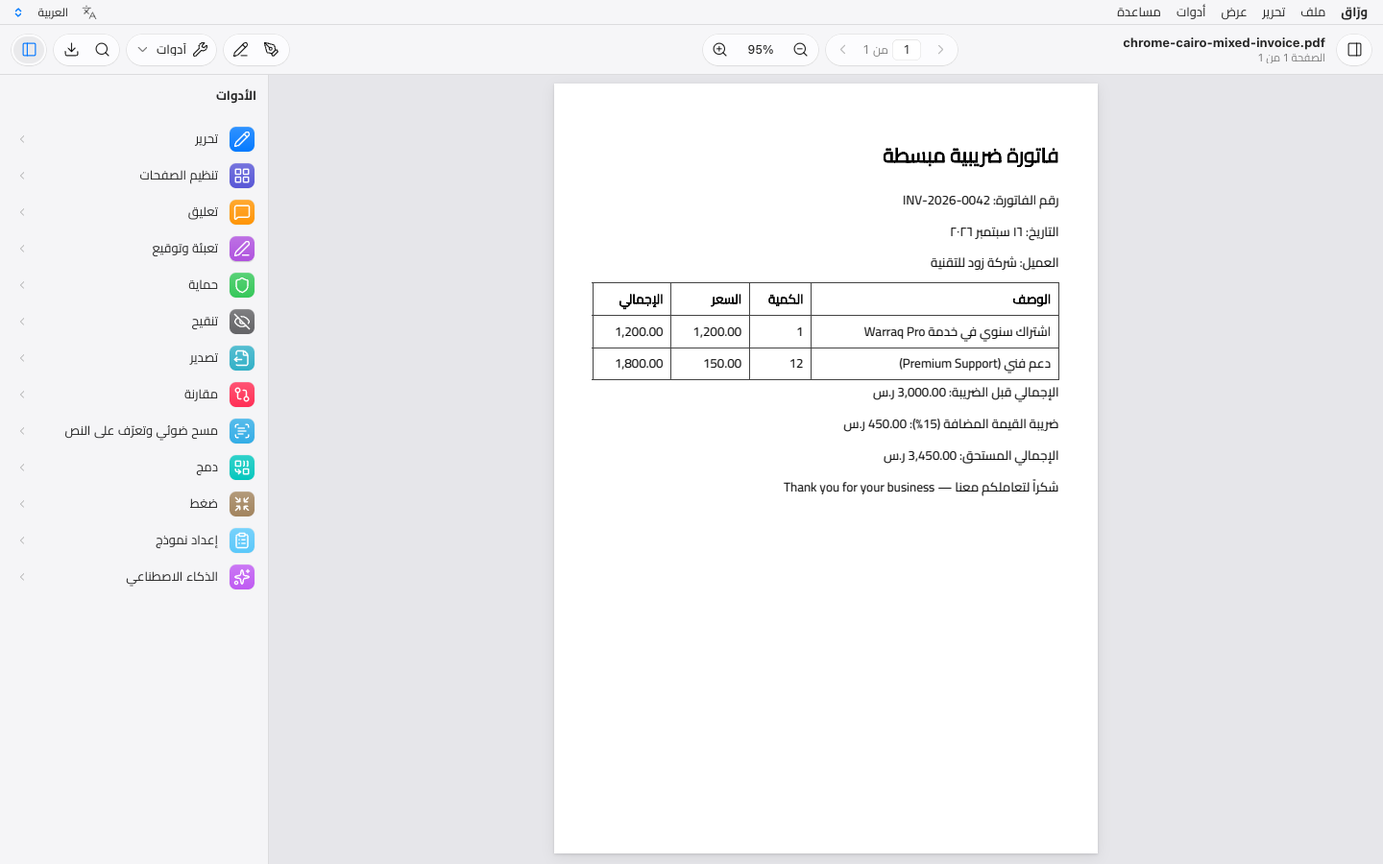
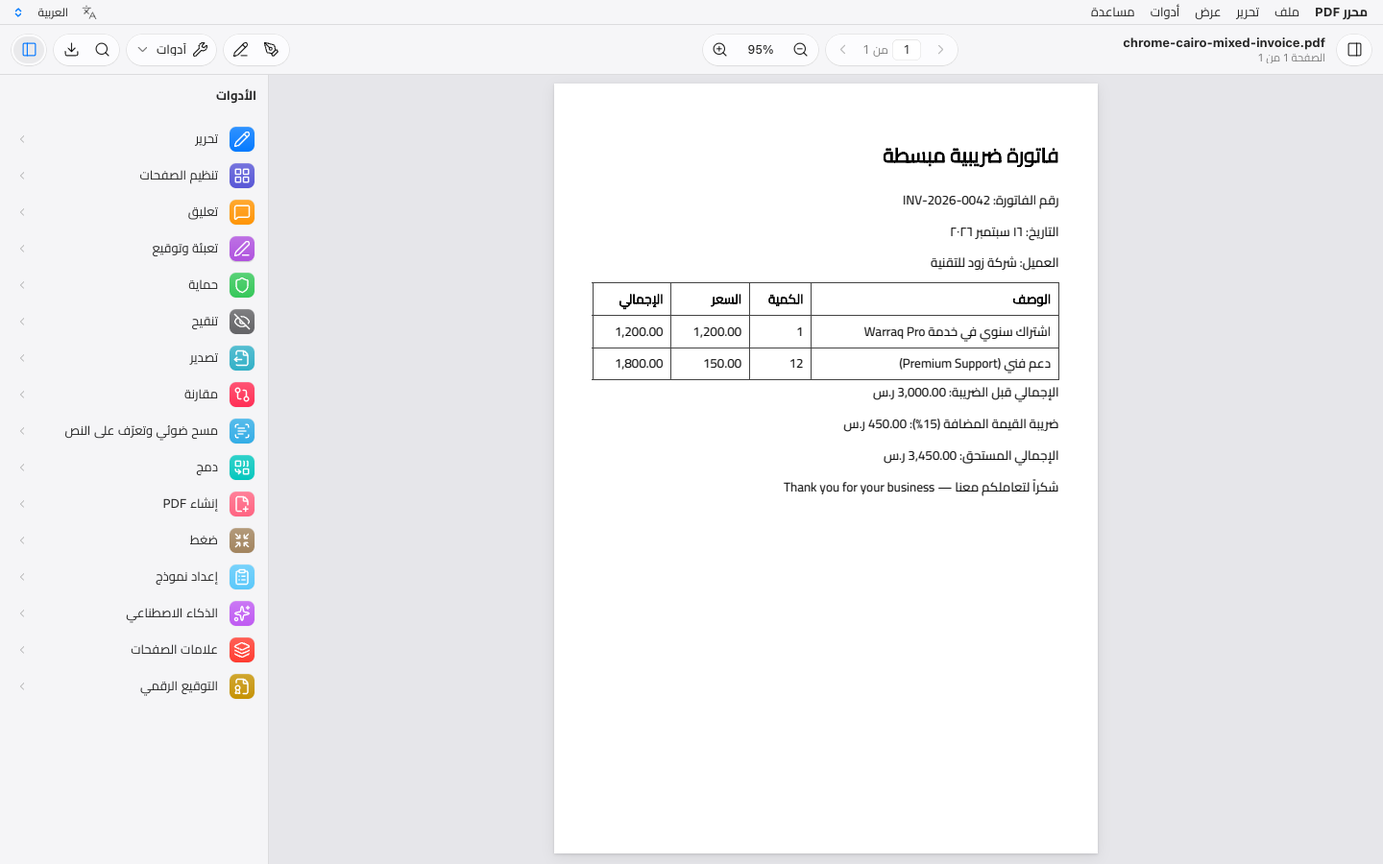
Refresh the screenshots and say in the docs what the shell now does
Eighteen screenshots from the production build, six of them new: the home
screen's tools, the picker's gallery in both languages, About, Settings and
a phone with a tool's sheet — all looked at. The tool picker now scrolls
rather than running off a short window's bottom edge.

docs/design/README.md and docs/STATUS.md say what is true after the review:
the toggles follow the view, the macOS menu bar's Undo, About and checks,
the sheet's drag and its physics, the markup toolbar in the View menu, the
keyboard of the tool picker and of segmented controls, and the rules the
home screen's pictures follow — with the limits stated: the picture is
dropped on save rather than retaken, no page is drawn past 64 million
pixels, the menu bar is proven against a stand-in for the host rather than
clicked in the installed app, and the sheet has not been dragged with a
finger.

Changed region(s): [[0.0938, 0.56, 0.1875, 0.8089], [0.7812, 0.0, 1.0, 0.0311]]

diff --git a/apps/web/e2e/design-screenshots.spec.ts b/apps/web/e2e/design-screenshots.spec.ts
@@ -85,6 +85,44 @@ test('document, Arabic, dark', async ({ page, stayLocal: _ }) => {
   await shoot(page, 'document-ar-dark');
 });
 
+test('home: the tools', async ({ page, stayLocal: _ }) => {
+  await start(page, 'ar', 'light');
+  await page.locator('.home-section', { has: page.locator('#home-tools') }).scrollIntoViewIfNeeded();
+  await shoot(page, 'home-tools-ar-light');
+});
+
+test('the tool picker’s gallery', async ({ page, stayLocal: _ }) => {
+  await start(page, 'en', 'light');
+  await openPdf(page, WORD_EXPORT);
+  await page.getByRole('toolbar').getByRole('button', { name: /^Choose a tool/ }).click();
+  await expect(page.getByRole('dialog', { name: 'All tools' })).toBeVisible();
+  await shoot(page, 'gallery-en-light');
+});
+
+test('the tool picker’s gallery, Arabic, dark', async ({ page, stayLocal: _ }) => {
+  await start(page, 'ar', 'dark');
+  await openPdf(page, INVOICE);
+  await page.getByRole('toolbar').getByRole('button', { name: /^اختيار أداة/ }).click();
+  await expect(page.getByRole('dialog', { name: 'كل الأدوات' })).toBeVisible();
+  await shoot(page, 'gallery-ar-dark');
+});
+
+test('About', async ({ page, stayLocal: _ }) => {
+  await start(page, 'en', 'dark');
+  await page.getByRole('menubar').getByRole('menuitem', { name: 'محرر PDF' }).click();
+  await page.getByRole('menuitem', { name: /^About/ }).click();
+  await expect(page.getByRole('dialog')).toBeVisible();
+  await shoot(page, 'about-en-dark');
+});
+
+test('Settings', async ({ page, stayLocal: _ }) => {
+  await start(page, 'ar', 'light');
+  await page.getByRole('menubar').getByRole('menuitem', { name: 'محرر PDF' }).click();
+  await page.getByRole('menuitem', { name: /^الإعدادات/ }).click();
+  await expect(page.getByRole('dialog')).toBeVisible();
+  await shoot(page, 'settings-ar-light');
+});
+
 test('inspector: Organize', async ({ page, stayLocal: _ }) => {
   await start(page, 'en', 'light');
   await openPdf(page, THREE_PAGES);
@@ -132,6 +170,15 @@ test('phone: document', async ({ page, stayLocal: _ }) => {
   await start(page, 'en', 'light', { width: 375, height: 812 });
   await openPdf(page, THREE_PAGES);
   await shoot(page, 'phone-document-en-light');
+});
+
+test('phone: a tool’s sheet', async ({ page, stayLocal: _ }) => {
+  await start(page, 'ar', 'light', { width: 375, height: 812 });
+  await openPdf(page, INVOICE);
+  await page.getByRole('toolbar').getByRole('button', { name: /^اختيار أداة/ }).click();
+  await page.getByRole('dialog', { name: 'كل الأدوات' }).getByRole('radio', { name: 'ضغط' }).click();
+  await expect(page.locator('.pane-end')).toBeVisible();
+  await shoot(page, 'phone-sheet-ar-light');
 });
 
 test('tablet: document with inspector', async ({ page, stayLocal: _ }) => {

diff --git a/apps/web/e2e/look.spec.ts b/apps/web/e2e/look.spec.ts
@@ -86,6 +86,20 @@ test('every tool is in the picker, on the home screen, in the inspector and in t
   }
 });
 
+test('in a window too short for the gallery, it stays on screen and scrolls', async ({ page, stayLocal: _ }) => {
+  await start(page, 'en', { width: 1000, height: 420 });
+  await openPdf(page, INVOICE);
+  await page.getByRole('toolbar').getByRole('button', { name: /^Choose a tool/ }).click();
+  const gallery = page.getByRole('dialog', { name: 'All tools' });
+  const box = (await gallery.boundingBox())!;
+  expect(box.y).toBeGreaterThanOrEqual(0);
+  expect(box.y + box.height).toBeLessThanOrEqual(420);
+  // Every tile is still reachable, by scrolling the gallery itself.
+  const last = gallery.getByRole('radio').last();
+  await last.scrollIntoViewIfNeeded();
+  await expect(last).toBeInViewport();
+});
+
 test('at phone width the gallery holds every tool and nothing scrolls sideways', async ({ page, stayLocal: _ }) => {
   await start(page, 'ar', { width: 390, height: 844 });
   const count = await page.locator('.home .tool-cards-grid .tool-card').count();

diff --git a/packages/ui/src/shell/shell.css b/packages/ui/src/shell/shell.css
@@ -393,7 +393,11 @@
 
 /* ---- Tool gallery (the toolbar's tool picker) ------------------------------- */
 .tool-gallery-popover {
+  /* Sixteen tools are six rows: in a window too short for them, the gallery
+     scrolls instead of running off the bottom. */
+  max-block-size: calc(100dvh - var(--toolbar-h) - var(--space-8));
   padding: var(--space-4);
+  overflow-y: auto;
 }
 
 .tool-gallery {

diff --git a/docs/STATUS.md b/docs/STATUS.md
@@ -1,6 +1,11 @@
 # STATUS — Warraq
 
-*Updated 2026-09-19: the interface is rebuilt on EmbedPDF (ADR-0007); all sixteen tools work end to end, each proven by a test that clicks through it, saves the file and reopens it — Create PDF (Word, Excel, PowerPoint, web pages, Markdown, text and pictures to PDF) and Export to Excel and PowerPoint the latest. Digital signature: signing and checking proven through the interface; its timestamps and validation data work on the desktop only, proven by Rust tests and run once against DigiCert and Sectigo, not through the interface; its verifier was hardened against the published PDF-signature attacks after an adversarial review (below). Also since then: search and copy in the page view answer with Warraq's reader, the web app installs and works offline, Windows and Linux print by pages, EmbedPDF's interface is Arabic throughout, and Nastaliq Urdu reads exactly.*
+*Updated 2026-09-20: an adversarial review of the Apple-style redesign found ten distinct problems —
+the home screen keeping a picture of a page as it was before a redaction, the macOS menu bar's Undo and
+About, stale checks and pressed states, the keyboard in the tool picker and in Settings, the markup
+toolbar and the sheet's grabber on a phone, and text pointing at chrome that no longer exists — and every
+one is fixed with a test ("Fixed after the redesign review", below). Before that, 2026-09-19: the
+interface is rebuilt on EmbedPDF (ADR-0007); all sixteen tools work end to end, each proven by a test that clicks through it, saves the file and reopens it — Create PDF (Word, Excel, PowerPoint, web pages, Markdown, text and pictures to PDF) and Export to Excel and PowerPoint the latest. Digital signature: signing and checking proven through the interface; its timestamps and validation data work on the desktop only, proven by Rust tests and run once against DigiCert and Sectigo, not through the interface; its verifier was hardened against the published PDF-signature attacks after an adversarial review (below). Also since then: search and copy in the page view answer with Warraq's reader, the web app installs and works offline, Windows and Linux print by pages, EmbedPDF's interface is Arabic throughout, and Nastaliq Urdu reads exactly.*
 
 ## Where the product stands
 
@@ -127,12 +132,12 @@ reduced transparency and reduced motion honoured.
 
 | | |
 | --- | --- |
-| Toolbar | One unified toolbar in place of the ribbon and the status bar. It carries the document's title, with "Page n of m — Edited" under it; pages; zoom (which now drives EmbedPDF's zoom too); the markup toolbar; Edit text; a tool picker that opens a gallery of the 13 tools; find; save; and the inspector |
+| Toolbar | One unified toolbar in place of the ribbon and the status bar. It carries the document's title, with "Page n of m — Edited" under it; pages; zoom (which now drives EmbedPDF's zoom too); the markup toolbar; Edit text; a tool picker that opens a gallery of all sixteen tools; find; save; and the inspector. Its toggles follow what is really open in the view |
 | Inspector | The tools pane, restyled: grouped inset sections, action lists, and macOS checkboxes, radios, pop-up buttons, segmented controls, steppers and switches. Every panel, including ones added later, gets the look from shared classes |
-| Home | A document chooser. Recent files are shown as pages with a small picture of each first page, stored on the device and never for a password-protected file. The inert "Open from OneDrive / Google Drive" buttons are gone: they did nothing, and the connectors are not built (feature matrix: Cloud ⬜) |
+| Home | A document chooser. Recent files are shown as pages with a small picture of each first page, kept in this browser's storage and nowhere else: never for a file that needed a password, dropped the moment anything is marked for redaction, and dropped when the file is saved, since the saved file may no longer look like it (a new one is taken the next time it opens). The inert "Open from OneDrive / Google Drive" buttons are gone: they did nothing, and the connectors are not built (feature matrix: Cloud ⬜) |
 | Dialogs and overlays | Dialogs are sheets. Popovers come out of their trigger. Toasts are a HUD. The find bar sits under the toolbar. The drop overlay is a material with one or two targets. Settings (⌘,) holds language and appearance |
 | EmbedPDF | Themed with Warraq's tokens by reference. Its duplicated sidebar, zoom and search buttons and its floating page field (except on a phone) are gone. The rest of its bar is the markup toolbar, shown from Warraq's toolbar |
-| macOS app | The title bar is merged into the toolbar, with the traffic lights in it. The toolbar drags the window and a double click zooms it. The system menu bar is built from the page's own menu model, in the interface language, and enables and checks items as the page does. A shortcut the page handles never runs its menu item too |
+| macOS app | The title bar is merged into the toolbar, with the traffic lights in it. The toolbar drags the window and a double click zooms it. The system menu bar is built from the page's own menu model, in the interface language; its checks follow EmbedPDF's own state, it is sent again after every item chosen there, its Undo and Redo reach the typing in whatever field has the focus, and About opens the page's own sheet. A shortcut the page handles never runs its menu item too |
 | Narrow windows | On a tablet the toolbar condenses. On a phone the inspector is a sheet, the sidebar floats over the page, and nothing scrolls sideways. On a touch screen (`pointer: coarse`) the controls, rows, toolbar and menu bar grow to 44-point targets; the look is the same |
 | App icon | New original artwork (`scripts/icon/make_icon.py`): a calligraphic و on a sheet of paper. Desktop and extension icons are regenerated from it |
 
@@ -374,6 +379,78 @@ test that fails without its fix.
    focus, a second commit runs the first at once, and nothing being typed is
    overwritten by the check of what was typed before.
 
+## Fixed after the redesign review, 2026-09-20
+
+Three reviewers went over the Apple-style redesign and a fourth confirmed each
+finding. Eighteen were raised, ten of them distinct; every one is fixed, each
+with a test that fails without its fix.
+
+1. **The home screen kept a picture of page 1 as it was before a redaction.**
+   The recent grid's picture was taken when a file opened and never replaced,
+   so after marking and applying a redaction, deleting a page or setting a
+   password and saving over the file, the home screen still showed the page as
+   it was. It is now forgotten the moment anything is marked for redaction (and
+   none is taken while that file stays open), whenever the file is saved, and
+   when a file that needs a password opens under a name that had one
+   (`e2e/recent.spec.ts`).
+2. **Opening any file drew its first page with no limit on its size.** A
+   `/MediaBox` of a million points asked the core for gigabytes — a trap that
+   aborts the WebAssembly core — and a picture was drawn on every open. The
+   picture is sized to fit both ways and skipped past that, and no render
+   anywhere may pass 64 million pixels: the core refuses first, before
+   allocating (`robustness.rs`). Warraq's own view draws a large page at a high
+   zoom a little softer instead of hitting that limit.
+3. **In the macOS menu bar, Undo could not reach the typing in a text field.**
+   The page's own Undo item replaced the system's role but was enabled only by
+   the document's history, so typing in a field (the first paragraph edit, the
+   page field, the password sheet) could not be undone from the menu; and it
+   aimed by `document.activeElement`, which inside EmbedPDF's shadow root is
+   its host, so in EmbedPDF's search field the menu took back the last drawing
+   instead. Both now follow the focused field and what its typing can undo. The
+   paragraph editor undoes its own typing on ⌘Z, and shortcuts match the key's
+   place when the layout is not Latin (an Arabic keyboard types ئ on Z).
+4. **About could not be opened on the Mac.** The app menu's About was the
+   system's panel, which never reaches the page: the core's version, the engine
+   drawing the pages and the privacy note were nowhere. It is the page's own
+   sheet now, and a desktop core that could not load PDFium says so in a badge
+   beside the document's title.
+5. **Checks and pressed states that come from EmbedPDF went stale.** The
+   sidebar and Find buttons and the View menu's Fit width, Fit page and
+   navigation-pane checks were read while drawing, and nothing drew again when
+   EmbedPDF changed. They follow its command state now; the macOS menu is sent
+   again after every item chosen there, because the system flips a check item's
+   own mark; and in Edit text the sidebar button no longer shows the state
+   before the click. Find there can be pressed off again.
+6. **The arrow keys in the tool picker moved the focus out of it.** Left,
+   Right, Home and End went through the popover's portal to the toolbar behind
+   it, and opening the picker from the keyboard left the focus on its trigger
+   (the popover took focus while still hidden). Fixed both ways; Home and End
+   go to the first and last tile.
+7. **Settings' segmented controls announced a radio group they did not have.**
+   Every option was a Tab stop and the arrows did nothing. They are one Tab
+   stop now, and the arrows move and choose, following the reading direction —
+   the same for Edit's kinds and Prepare form's scope.
+8. **A phone could not show the markup toolbar at all**, and View › Tools pane
+   flipped a check and showed nothing while no tool was chosen. The View menu
+   has a Markup toolbar item (the macOS menu bar gets it too), and Tools pane,
+   the toolbar's inspector button and Shift+F4 are offered only when a sheet
+   can rise.
+9. **The phone's sheet drew a grabber that could not be dragged.** It drags
+   now, with the system's sheet physics, and closes when the drag — carried on
+   by its speed — passes half the sheet.
+10. **The Shortcuts sheet sent people to the status bar**, which the redesign
+    removed, in both languages. It names the toolbar's page field and Edit ›
+    Go to page now, and is shown only in a browser, since only a browser keeps
+    that key for itself. A test fails on any string that mentions the status
+    bar or the ribbon again, and their leftover strings, rules and tokens are
+    gone.
+
+Also found while looking: the app's Arabic name was letter-spaced inside the
+English interface, which breaks the joins (it is marked as Arabic now); the
+tool picker had no height limit, so a short window would have cut it off; and
+a first keystroke was swallowed by the new focus tracking until it was moved
+off the input event's own dispatch.
+
 ## Known gaps, stated plainly
 * **Create PDF lays content out itself, and plainly.** It is not Word's, Excel's or PowerPoint's layout engine: one face (Amiri, with Inter for what Amiri lacks) and one size per paragraph, greedy line breaks at spaces (no hyphenation, no kashida), tables whose cells can span columns but not rows (a cell merged down is left empty below it). Not read: Word's text boxes, shapes, footnotes, comments, columns and a first page's own header; Excel's charts, pictures and cell colours, and anything past 2,000 rows or 60 columns of a sheet (the panel says so); PowerPoint's charts, SmartArt, gradients, shapes other than boxes (drawn as their box), rotation, animations and notes; a web page's style sheets (only a `style` attribute's colour, alignment and direction) and any picture it does not carry itself. HEIC and AVIF pictures are made into PNGs by the browser, so they work where the browser can draw them (Safari and the macOS app for HEIC). The Office files Create reads and the exports it writes are checked against ECMA-376's content models by the tests (`packages/ui/src/export/ooxml.testing.ts`) and by the browser's XML parser; the official XSDs are not in the repository, and the exports have not been opened in Office itself on this Mac (no Office is installed).
 * **Excel export finds tables, it does not read their meaning.** A table drawn with rules becomes a grid, a missing border a merged cell; a table without rules is found where lines cut at wide gaps stand in the same columns one under another — a two-column page layout can be taken for one. Numbers are only what is plainly a number (a leading zero, a date, a phone number and anything with letters stay text).
@@ -418,7 +495,23 @@ test that fails without its fix.
   (`docs/design/screenshots/`).
 * **Undo in the macOS menu bar is the app's own item, not the system's role.** A system Undo reaches only the
   webview's text fields, never the document's history. The app's item undoes the document, or the typing
-  when a text field has the focus. Cut, Copy, Paste and Select All are the system's.
+  when a text field has the focus — enabled by what the browser says that field's history can undo
+  (`queryCommandEnabled`), and carried out with `execCommand`. Cut, Copy, Paste and Select All are the
+  system's. **What is proven and what is not**: the whole menu path is exercised in Chrome against a
+  stand-in for the host that receives the very menu the page sends and delivers items chosen in it
+  (`e2e/native-menu.spec.ts`); the system's own menu bar in the installed app has still not been clicked by
+  anyone (no screen access here), and WebKit's editing history is assumed to answer as Chrome's does.
+* **The recent grid's picture is dropped when a file is saved, not retaken.** The saved file may no longer
+  look like it — a page deleted, a password set, a redaction applied — and which file a name means after a
+  save (the panel can write anywhere) is not knowable from the name alone, so the tile shows a plain page
+  until that file is opened again. Nothing about a redacted or protected page is kept.
+* **No page is drawn with more than 64 million pixels.** Past that the core refuses the render rather than
+  allocating gigabytes for a page size read from the file. An A4 page at the largest scale the core draws
+  at (8×) is half of it, and print, export and OCR ask for less; a very large page at a very high zoom is
+  drawn a little softer instead.
+* **The phone's sheet drag has been tested in a browser, not on a phone.** The gesture is driven by pointer
+  events at 390 points wide with touch emulated (`e2e/phone.spec.ts`), and its physics — momentum
+  projection, rubber-banding, the spring — are unit-tested; no one has yet dragged it with a finger.
 * **OCR reads diacritics poorly and skips some table rows**; crooked scans are straightened first, but there is no cleanup of stains or shadows; Nastaliq Urdu cannot be recognised usefully on the device at all. Recognition in the desktop app has not been watched yet (it runs in the same webview that draws the pages).
 * **Nastaliq Urdu** now reads exactly where the file maps its glyphs: the corpus's Chrome-made Nastaliq page went from recall 0.61 / order 0.56 to 1.0 / 1.0 (`tests/acid`, baseline raised), with no other truth-scored file changing a byte. Nastaliq lifts each word's letters up to an em above the line, which split every line into fragments; a joining letter touching its neighbour is now read on that letter's baseline. Not done: a Nastaliq file with no ToUnicode map — Noto Nastaliq draws ب ت ث ن ی پ ٹ from one skeleton plus separate dots, which the glyph-to-letter fallback cannot express (65 of 170 glyphs right), and producers that subset the font drop the table it reads. Two leftovers in real-world files: a false space in "مع ظم" (Wikibooks) and diacritics out of order in "وَأَناَ اشْترََيْتهُاَ" (a LibreOffice page).
 * **Ten corpus files** come back with U+FFFD placeholders where a glyph has no usable ToUnicode, cmap or GSUB evidence. Placeholders are deliberate: words are never silently merged.

diff --git a/docs/design/README.md b/docs/design/README.md
@@ -30,7 +30,8 @@ Segoe UI on Windows, with Cairo and Inter bundled for the rest.
 5. **Move only as feedback.** Sheets, popovers, the HUD and the phone's inspector sheet move because you
    asked for them. Nothing else animates, and nothing loops.
 6. **Arabic is not an afterthought.** Every layout uses logical properties, which stylelint enforces.
-   Arabic text is never letter-spaced, because tracking breaks the joins. Directional icons mirror
+   Arabic text is never letter-spaced, because tracking breaks the joins — including the app's own name
+   inside an English sentence, which is written `<bdi dir="rtl" lang="ar">`. Directional icons mirror
    (`<Icon mirror>`). Numbers typed in Arabic-Indic digits work in the page field.
 
 ## Tokens
@@ -119,7 +120,8 @@ Use `font-variant-numeric: tabular-nums` wherever numbers change in place, such 
     `transition-behavior: allow-discrete`).
   - Popovers grow out of their trigger. Their `transform-origin` is the point of the trigger (`Popover.tsx`).
     They shrink back into it.
-  - The phone's inspector sheet rises from the bottom edge.
+  - The phone's inspector sheet rises from the bottom edge, and follows a drag on its grabber; released, it
+    is sprung to where the drag was sending it (Apple's sheet spring: damping 0.8, response 0.3).
   - Nothing moves that you did not ask to move.
 
 ## The window
@@ -141,8 +143,10 @@ Use `font-variant-numeric: tabular-nums` wherever numbers change in place, such 
   - Leading: the sidebar toggle and the **title block**. The title block holds the file name and a subtitle
     `role="status"` named "Document status", which reads "Page n of m — Edited".
   - Middle: pages and zoom. Zoom reads and sets EmbedPDF's zoom, or Warraq's own in Edit text.
-  - Trailing: the markup toolbar, Edit text, the **tool picker** (a popover gallery of the 15 tools), find,
-    save and the inspector.
+  - Trailing: the markup toolbar, Edit text, the **tool picker** (a popover gallery of all sixteen tools;
+    the arrow keys move between its tiles, Home and End to the ends), find, save and the inspector.
+  - The toggles — the sidebar, find, the markup bar — are pressed exactly while what they show is open,
+    in both views: EmbedPDF's own state is followed (`watchToggles`), not read once while drawing.
   - Controls are grouped on glass capsules (`.toolbar-group`).
 - **Sidebar** (`LeftPane`): translucent source-list material.
 - **Inspector** (`RightPane`, `.inspector`): the tools as a list, or the chosen tool's panel under a header
@@ -176,8 +180,13 @@ Use `font-variant-numeric: tabular-nums` wherever numbers change in place, such 
     Others, Show All, Quit), the system's Cut/Copy/Paste/Select All, Enter Full Screen and the Window menu.
   - Items enable, disable and check as the page's menu does. The model is re-sent on every change. The
     menu is rebuilt only when labels change; otherwise it is updated in place.
-  - Undo and Redo are the model's own items, so they reach the document's history. In a text field they
-    undo the typing.
+  - Undo and Redo are the model's own items, so they reach the document's history. While a text field has
+    the focus — EmbedPDF's own fields too, inside its shadow root — they are that field's, enabled by what
+    its typing can undo (`shell/typing.ts`); ⌘Z is handled by the page either way.
+  - **About** is the page's own sheet, which names the core's version and the engine drawing the pages; the
+    system's About panel knew neither and never reached the page.
+  - The model is sent again after every item chosen there: the system flips a check item's own mark when it
+    is clicked, and the model is the truth.
   - The page's own menu bar is not drawn. Language and appearance are in **Settings… (⌘,)**.
 - **Each shortcut runs once.** WebKit gives the page the first look at a key equivalent, and the page calls
   `preventDefault()` on every key it handles, so the menu does not also see it. `shell/shortcutEcho.ts`
@@ -187,10 +196,15 @@ Use `font-variant-numeric: tabular-nums` wherever numbers change in place, such 
 
 - At 900 px and below, the tool picker shows its icon only and zoom leaves the toolbar. Zoom stays in the
   View menu and on keys.
-- At 700 px and below, the inspector becomes a **sheet** from the bottom edge (with a grabber and a close
-  button), and the sidebar floats over the document.
+- At 700 px and below, the inspector becomes a **sheet** from the bottom edge, and the sidebar floats over
+  the document. The sheet's **grabber** drags: it follows the finger from where it was taken, resists being
+  pulled past its top, and on release goes where the finger was sending it — the momentum projected as a
+  scroll's is, then a spring from where it is at the speed it had, which can be taken hold of again
+  mid-flight (`shell/sheetDrag.ts`). Its close button does the same for the keyboard. With no tool chosen
+  there is no sheet, so View › Tools pane and the inspector button are not offered.
 - At 640 px and below (a phone):
-  - The toolbar keeps the sidebar, the title, the tool picker and save.
+  - The toolbar keeps the sidebar, the title, the tool picker and save. Find, Edit text and the markup
+    toolbar are in the menus (Edit › Find, Edit › Edit text, View › Markup toolbar).
   - EmbedPDF's floating page field returns, as the way to move between pages.
   - The home grid uses three columns, and the tools gallery two.
   - Nothing ever scrolls sideways.
@@ -214,7 +228,7 @@ Use `font-variant-numeric: tabular-nums` wherever numbers change in place, such 
 | `.text-input`                                   | Text field, with the accent halo on focus     |                                                                       |
 | `input[type=checkbox]`, `input[type=radio]`     | macOS checkbox and radio                      | Drawn with `appearance: none`, so they look the same in every host    |
 | `input[type=checkbox].switch`                   | Switch                                        | For on/off settings                                                   |
-| `.segmented` > `.segmented-item`                | Segmented control                             | `role="radiogroup"` / `role="radio"` with `aria-checked` (see `SettingsDialog`) |
+| `.segmented` > `.segmented-item`                | Segmented control                             | `role="radiogroup"` / `role="radio"` with `aria-checked` (see `SettingsDialog`). One Tab stop: the arrow keys move and choose, following the reading direction (`useRadioGroupKeyboard`) |
 | `.stepper`                                      | Number field with arrows                      |                                                                       |
 | `.tool-panel`                                   | An inspector panel                            | A column with 12-px gaps                                              |
 | `fieldset` + `legend` inside `.tool-panel`      | **Grouped inset section**, heading above      | The legend is drawn above the rounded group                           |
@@ -250,8 +264,9 @@ The document view (EmbedPDF 2.15.1) is themed through its own API in `embed/embe
   (`removeDuplicatedChrome`), because the toolbar has them. Its floating page field is hidden except on a
   phone.
 - **The rest of its bar is the markup toolbar.** That is the modes (annotate, shapes, insert, form, redact),
-  page settings, pan and the comments panel. It is shown from the toolbar's markup button and hidden by
-  default, as Preview's markup toolbar is. Its mode toolbars still appear whenever a tool puts it in a mode.
+  page settings, pan and the comments panel. It is shown from the toolbar's markup button or **View › Markup
+  toolbar** (the only way at phone width, where that button has no room) and hidden by default, as Preview's
+  markup toolbar is. Its mode toolbars still appear whenever a tool puts it in a mode.
 
 ## The app icon
 
@@ -279,12 +294,14 @@ pnpm --filter @warraq/web build
 WARRAQ_SCREENSHOTS=1 pnpm --filter @warraq/web exec playwright test e2e/design-screenshots.spec.ts
 ```
 
-- `home-en-light`, `home-ar-dark`: the document chooser.
+- `home-en-light`, `home-ar-dark`: the document chooser; `home-tools-ar-light`: its tools.
 - `document-en-light`, `document-ar-light`, `document-ar-dark`: a document open.
+- `gallery-en-light`, `gallery-ar-dark`: the tool picker's gallery, all sixteen.
 - `inspector-organize-en-light`, `inspector-compress-en-dark`: the inspector.
-- `sheet-goto-en-light`: a sheet.
+- `sheet-goto-en-light`, `about-en-dark`, `settings-ar-light`: sheets.
 - `drop-overlay-ar-light`: the split drop overlay.
-- `phone-home-ar-light`, `phone-document-en-light`, `tablet-document-ar-dark`: narrow widths.
+- `phone-home-ar-light`, `phone-document-en-light`, `phone-sheet-ar-light`,
+  `tablet-document-ar-dark`: narrow widths.
 
 The macOS app itself (traffic lights, the system menu bar) cannot be screenshotted headlessly. Its
 configuration is pinned by `apps/desktop/src-tauri/tests/desktop_contract.rs` and `src/menu.rs`'s tests.
